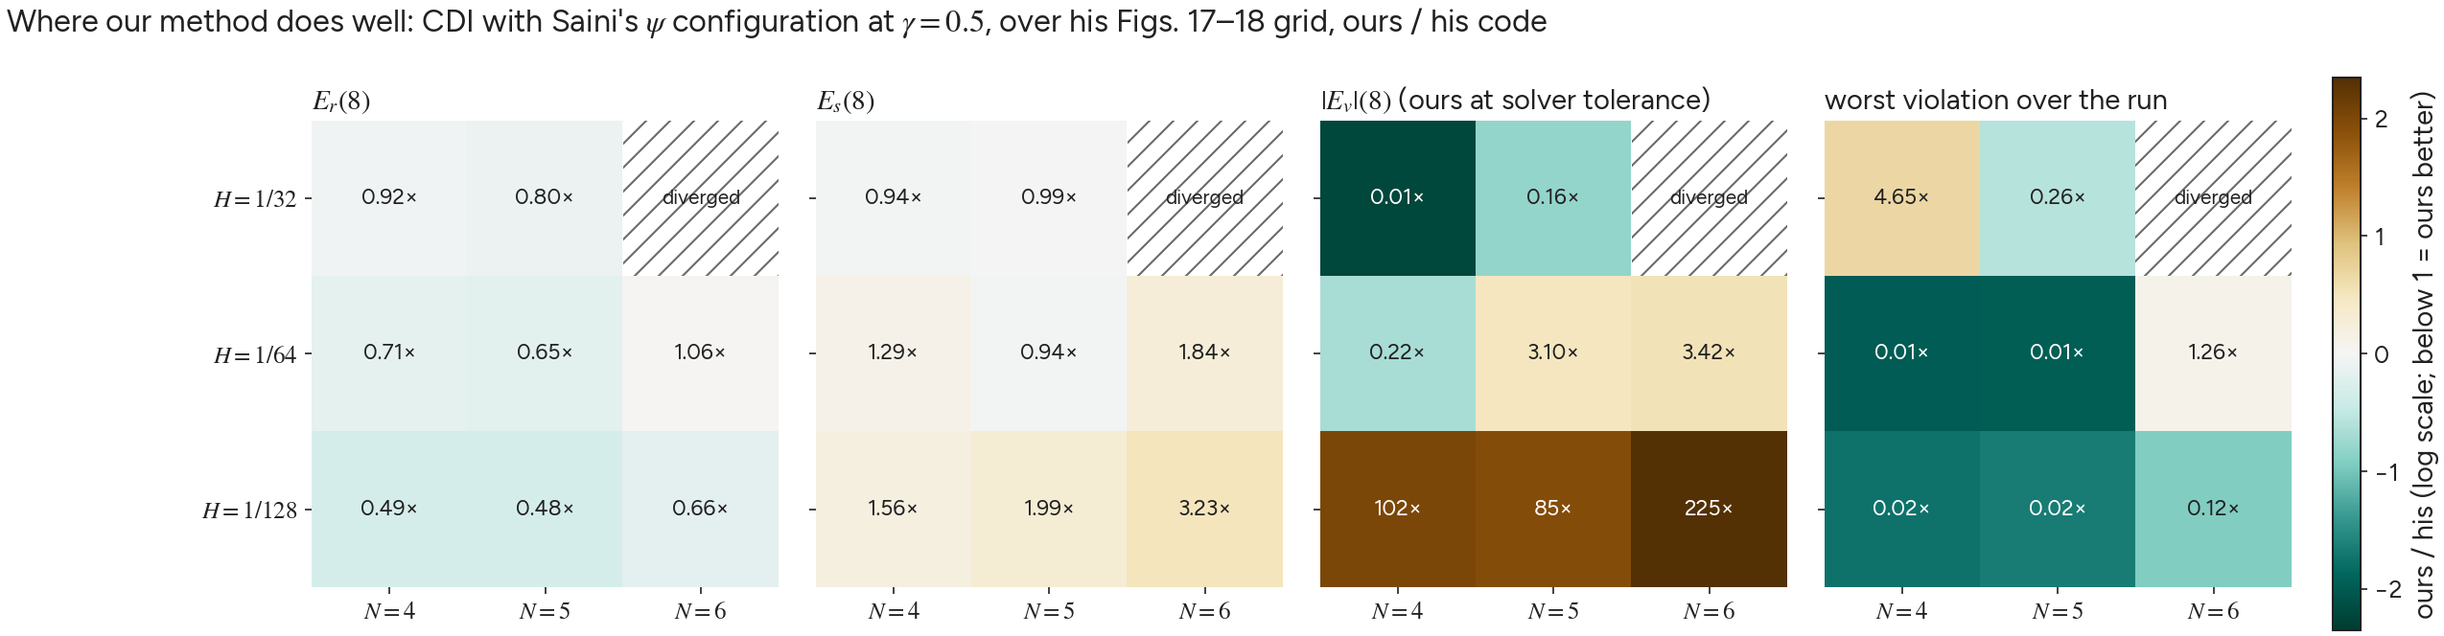
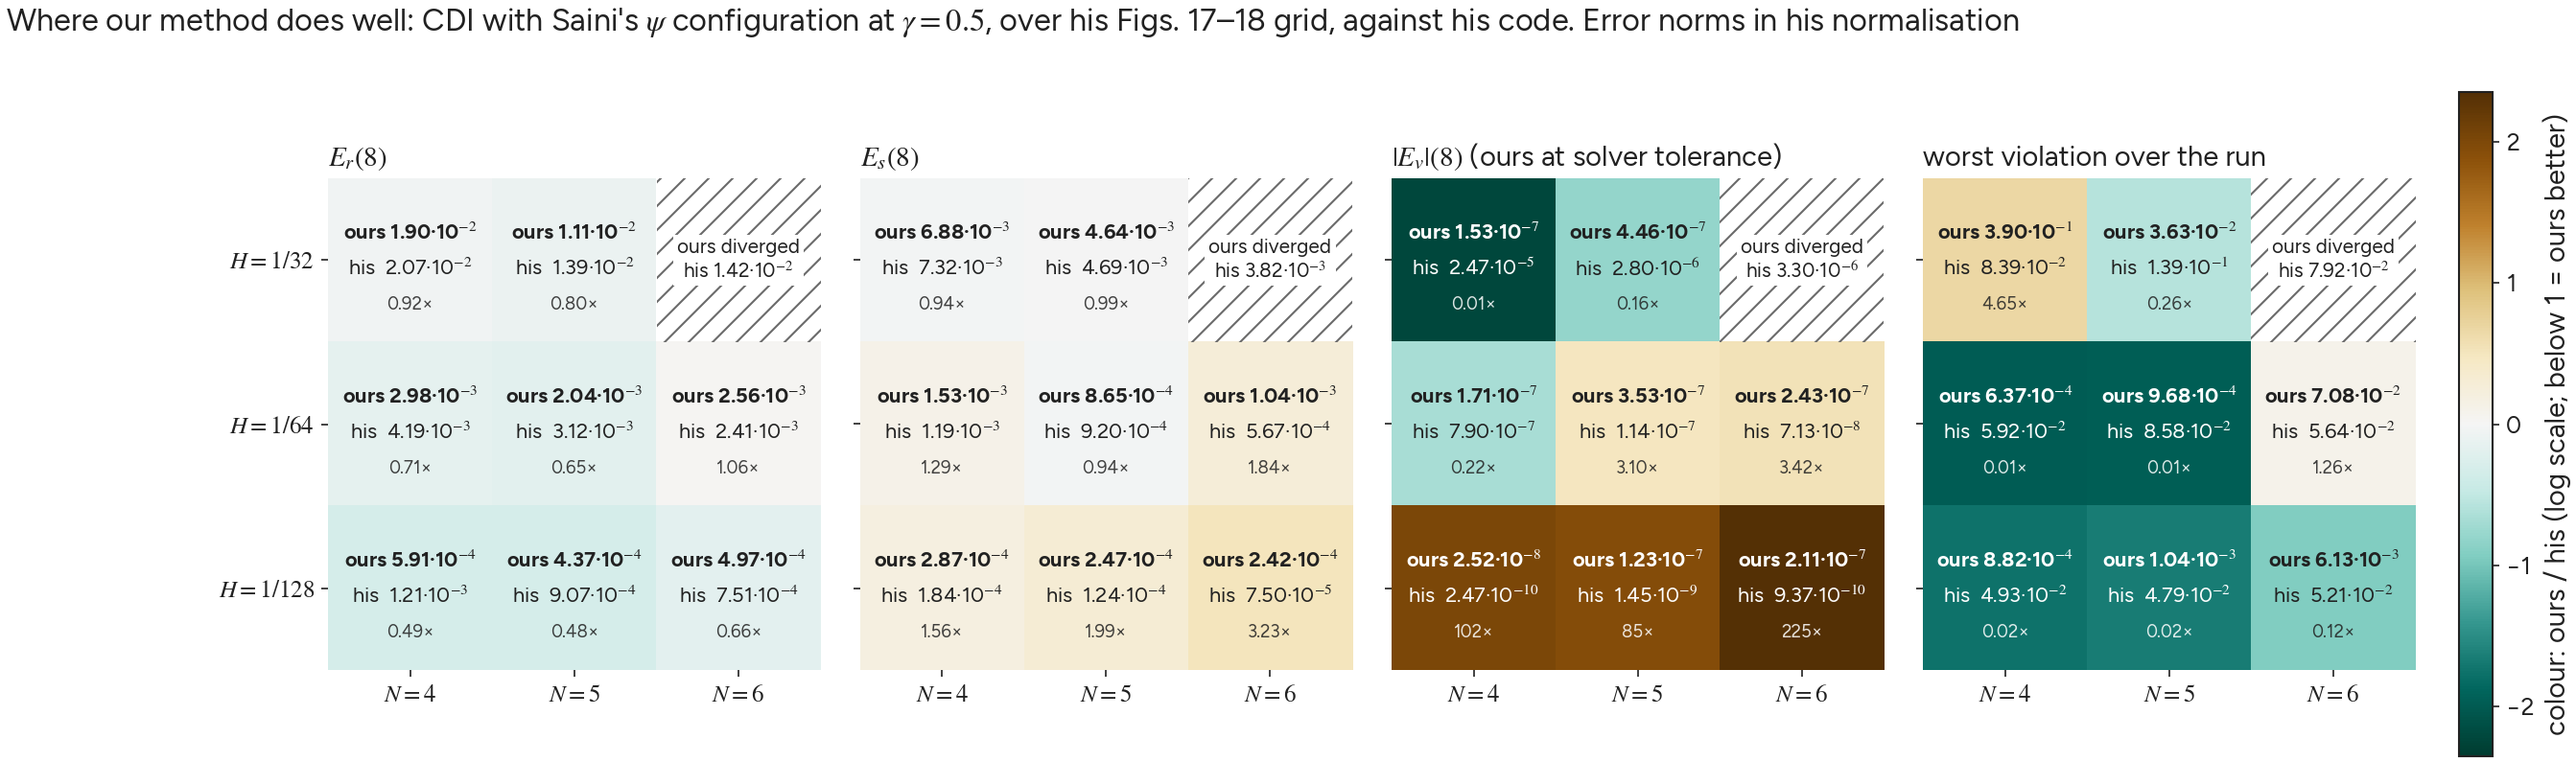
rider_kothe: map with values, his Figs. 18, 19 and 22, snapshots at gamma = 0.5
- rider_saini45_map.png: each cell shows ours and his values (his
  normalisation) with the ratio; the colour stays ours/his.
- rider_saini45_fig18/19/22.png: his h-refinement, interface thickness
  and |E_v|(t) figures redrawn with ours beside his; fig18 marks the
  diverged H = 1/32, N = 6 cell.
- rider_saini45_snapshots.png: phi and psi at t = 4 and 8, H = 1/64,
  N = 5, ours at gamma = 0.5, in the layout of rider_snapshots.png.
- README §6: a line for each.

diff --git a/examples/rider_kothe/README.md b/examples/rider_kothe/README.md
@@ -541,13 +541,18 @@ Every animation also ships as a GIF.
 **Saini's configuration against his code, over his grid** (`logs/s45_2026-10-12/figs_saini45.py`; §3.4, §3.7).
 Ours is CDI with his $\psi$ configuration at $\gamma=0.5$. His is his own code on the same cell. Error
 norms are in his normalisation: ours divided by 13.147.
-- **`rider_saini45_map.png`:** where our method does well. Ours over his for $E_r$, $E_s$, $|E_v|$ and
-  the worst violation, per cell of $H\in\{1/32,1/64,1/128\}\times N\in\{4,5,6\}$.
+- **`rider_saini45_map.png`:** where our method does well. Ours and his values for $E_r$, $E_s$, $|E_v|$
+  and the worst violation, coloured by ours over his, per cell of $H\in\{1/32,1/64,1/128\}\times N\in\{4,5,6\}$.
   - $E_r$ is 0.48–0.92× his in seven of eight cells.
   - The worst violation is 0.01–0.02× his at $H\ge1/64$, $N\le5$.
   - $E_s$ is 0.94–3.2× his.
   - $|E_v|$ is at our solver tolerance.
   - $H=1/32$, $N=6$ diverged.
+- **`rider_saini45_snapshots.png`:** $\phi$ and $\psi$ at $t=4$ and $t=8$, $H=1/64$, $N=5$, ours at $\gamma=0.5$,
+  against the exact interface (dashed); the layout of `rider_snapshots.png` (`logs/s45_2026-10-12/snapshots_s45.py`).
+  - $\phi$ is bounded to $3\times10^{-12}$ at $t=4$; at $t=8$ it spans $[-3.2\times10^{-4},\,1+5.7\times10^{-4}]$,
+    at the walls and inside the disk.
+  - At $t=8$ $\psi$'s zero contour is ragged across the top-left of the disk.
 - **`rider_saini45_tail_h128.png`:** the open problem. $\phi=0.5$ at $H=1/128$, $N=5$ against the exact
   interface, for ours at $\gamma=0.5$ and 1 and his code.
   - At $t=4$ (the whole spiral, and the tail zoomed), his contour reaches the tail tip and ours stops
@@ -563,6 +568,10 @@ norms are in his normalisation: ours divided by 13.147.
   - His $\phi$ leaves $[0,1]$ over much of the domain: $[-0.048,\,1.010]$ at $t=4$.
 - **`rider_saini45_fig17.png`:** his Fig. 17, $E_r$, $|E_v|$ and $E_s$ at $t=8$ against $N$, one curve
   per $H$. Ours solid, his dotted, his $N=3$ at $H=1/128$ included.
+- **`rider_saini45_fig18.png`:** his Fig. 18, the same three measures against $1/H$, one curve per $N$; x marks ours
+  diverged ($H=1/32$, $N=6$). Our $|E_v|$ stays near $10^{-7}$ as $H$ falls, his drops to $10^{-9}$–$10^{-10}$.
+- **`rider_saini45_fig19.png`:** his Fig. 19, the mean interface thickness $l_{avg}/l_0$ against $t$, per $H$ and
+  $N$. At $H=1/128$ ours stays within about 5% of 1; his falls to about 0.8 and rises to about 1.3 after $t=6$.
 - **`rider_saini45_fig20.png`:** his Fig. 20 as the worst violation against $t$, per $H$ and $N$, on a
   log scale. His figure plots $\max|\psi|$, overshoot only.
   - At $N=4$–5, $H\ge1/64$, ours has a per-frame median of $10^{-11}$–$10^{-8}$ and a maximum of about
@@ -571,6 +580,8 @@ norms are in his normalisation: ours divided by 13.147.
     violation grows late in the run.
   - His sits at $10^{-2}$–$10^{-1}$ throughout.
   - Source: `logs/s45_2026-10-12/tables/full_*.txt`, column 3.
+- **`rider_saini45_fig22.png`:** his Fig. 22, $|E_v|$ against $t$, in our normalisation for both. Ours climbs to
+  $10^{-6}$–$10^{-5}$ by $t\approx4$ and then holds; at $H=1/128$ his stays near $10^{-8}$.
 - **`rider_saini45_fig21.png`:** his Fig. 21, the 0.5 contour at $t=8$ for $H=1/32$, 1/64 and 1/128
   against the exact circle, per $N$. Ours is on top, his below; ours at $H=1/64$, $N=6$ is the ragged
   one.
